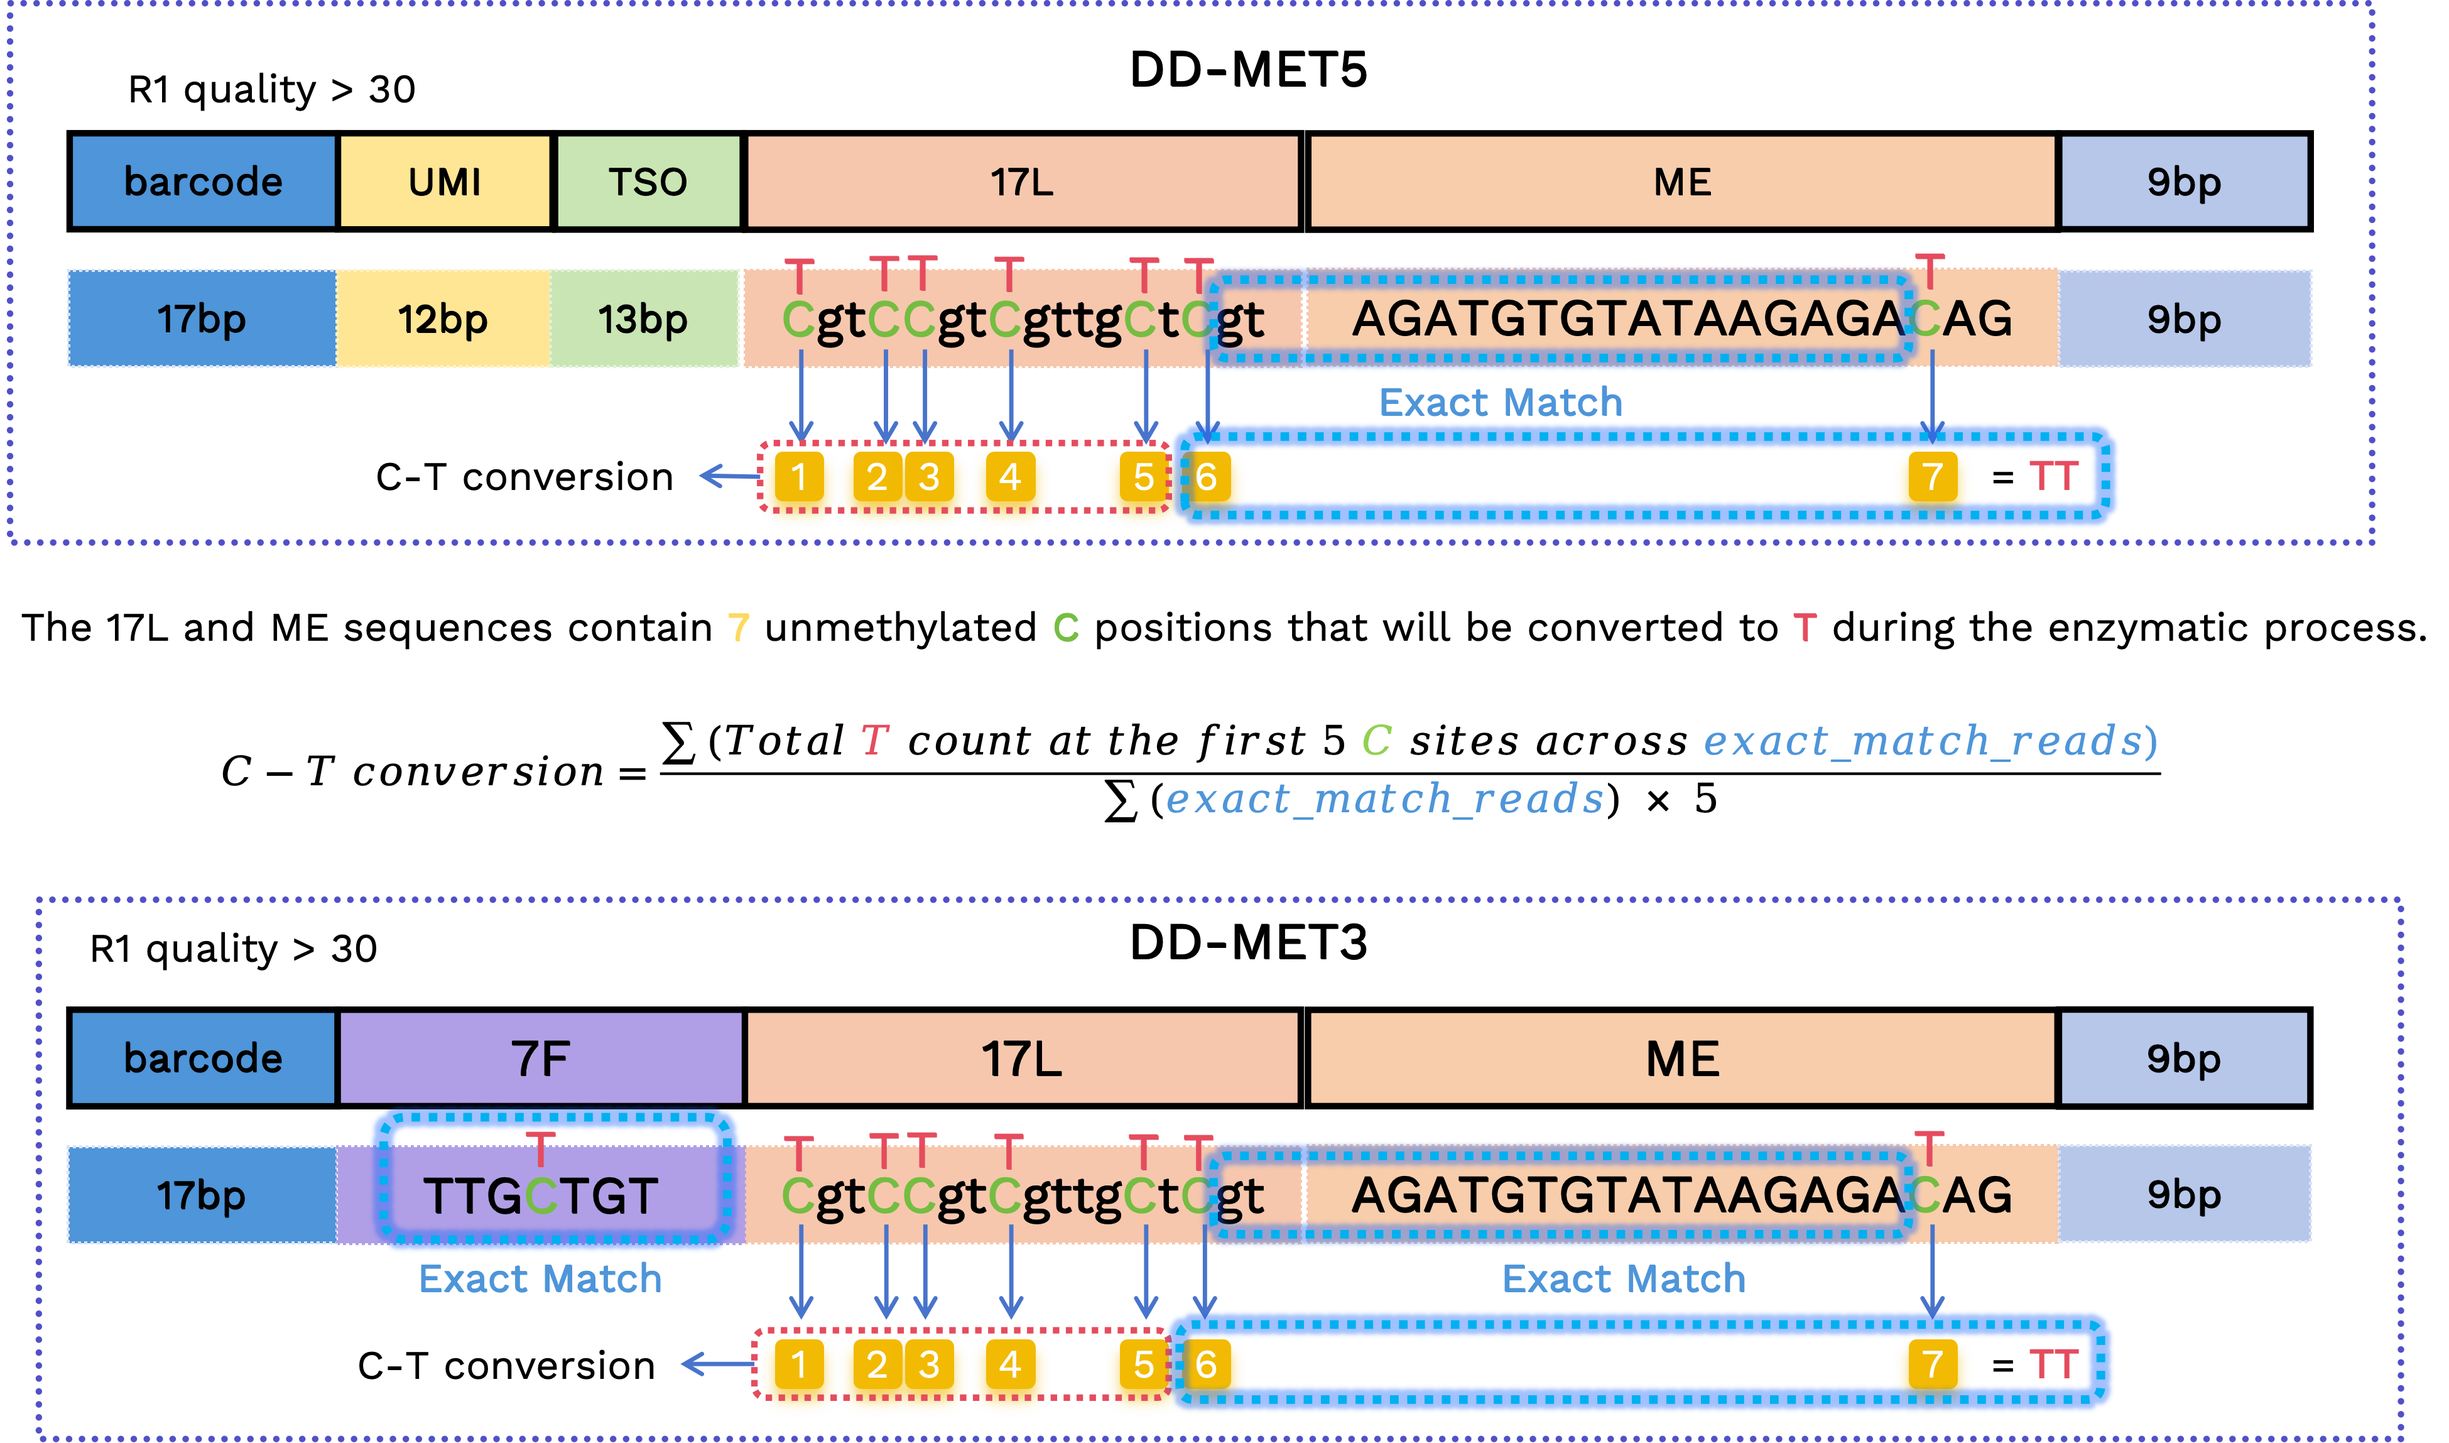
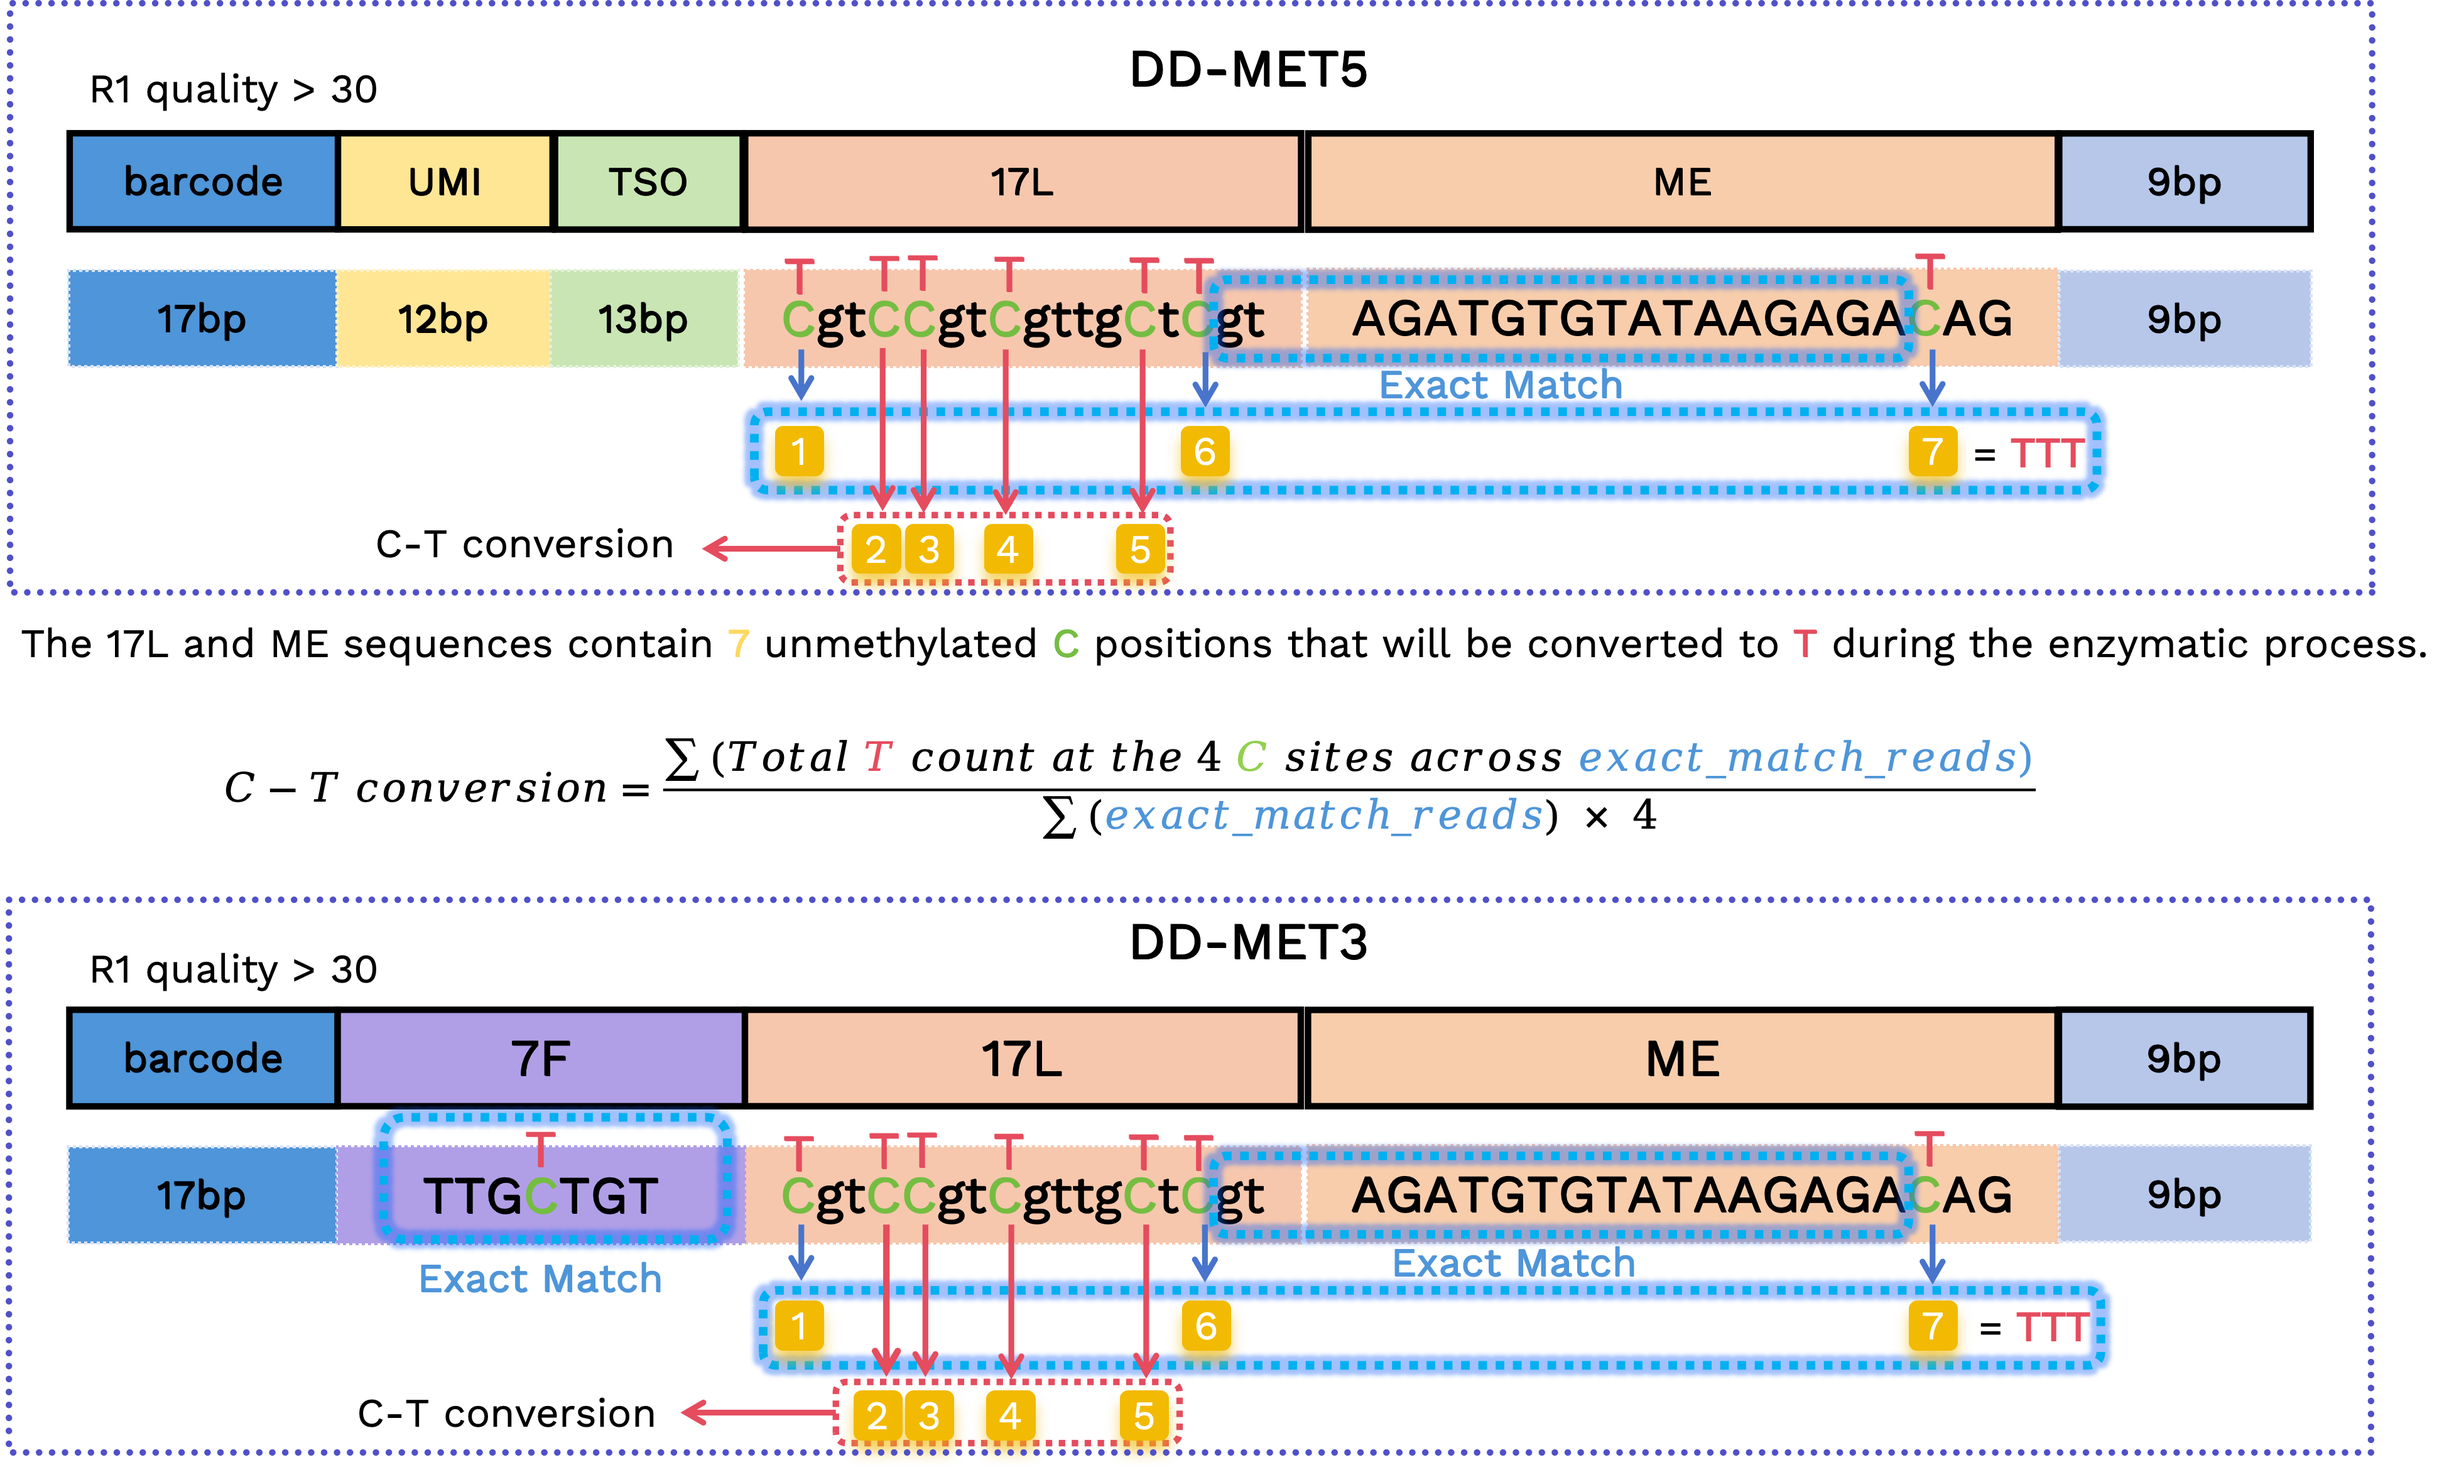
update readme

diff --git a/README.md b/README.md
@@ -201,6 +201,19 @@ If correction fails, the read is discarded and considered a final invalid barcod
 
 UMI positions are read from the designed structure and extracted without correction.
 
+**Forward and Reverse reads determination**
+
+From the positions corresponding to 17L and ME, there are 7 bases that can be C or converted T (highlighted below). We use the first and the last two C/T positions to determine forward vs. reverse reads: if all three positions are C, it indicates a reverse read; otherwise, it is a forward read.
+Forward: **T**gt**TT**gt**T**gttg**T**t**T**gtAGATGTGTATAAGAGA**T**
+Reverse: **C**gt**CC**gt**C**gttg**C**t**C**gtAGATGTGTATAAGAGA**C**
+Reverse reads correspond to CTOT/CTOB (reverse complement of the original strand) in methylation terminology; forward reads correspond to OT/OB (original strand).
+The "forward" or "reverse" determination is annotated in the read name.
+
+<figure style="text-align: center;">
+<img src="./docs/fr_determinate.png" alt="Forward and reverse reads determination" width="600" style="max-width: 100%; height: auto;" />
+<figcaption style="font-size: 0.95em; color: #666; margin-top: 4px;">Figure 4. Forward and reverse reads determination</figcaption>
+</figure>
+
 **C–T conversion rate**
 
 We calculate the C-to-T conversion rate using the original C positions within 17L and ME sequences. Since these are fixed sequences prone to sequencing errors, we restrict the calculation to reads with verified structures:
@@ -218,19 +231,6 @@ For the retained reads, we extract the bases at the corresponding positions to c
 
 > [!NOTE]
 > The above filtering steps are used only for calculating the C-to-T conversion rate; reads that do not meet these criteria are not filtered out from the final output FASTQ files.
-
-**Forward and Reverse reads determination**
-
-From the positions corresponding to 17L and ME, there are 7 bases that can be C or converted T (highlighted below). We use the first and the last two C/T positions to determine forward vs. reverse reads: if all three positions are C, it indicates a reverse read; otherwise, it is a forward read.
-Forward: **T**gt**TT**gt**T**gttg**T**t**T**gtAGATGTGTATAAGAGA**T**
-Reverse: **C**gt**CC**gt**C**gttg**C**t**C**gtAGATGTGTATAAGAGA**C**
-Reverse reads correspond to CTOT/CTOB (reverse complement of the original strand) in methylation terminology; forward reads correspond to OT/OB (original strand).
-The "forward" or "reverse" determination is annotated in the read name.
-
-<figure style="text-align: center;">
-<img src="./docs/fr_determinate.png" alt="Forward and reverse reads determination" width="600" style="max-width: 100%; height: auto;" />
-<figcaption style="font-size: 0.95em; color: #666; margin-top: 4px;">Figure 4. Forward and reverse reads determination</figcaption>
-</figure>
 
 **Artifact removal**
 

diff --git a/CHANGELOG.md b/CHANGELOG.md
@@ -2,6 +2,10 @@
 
 All notable changes to this project will be documented in this file.
 
+## [1.0.4]
+### Changed
+- Updated the C-T conversion rate algorithm.
+
 ## [1.0.3]
 
 ### Fixed
